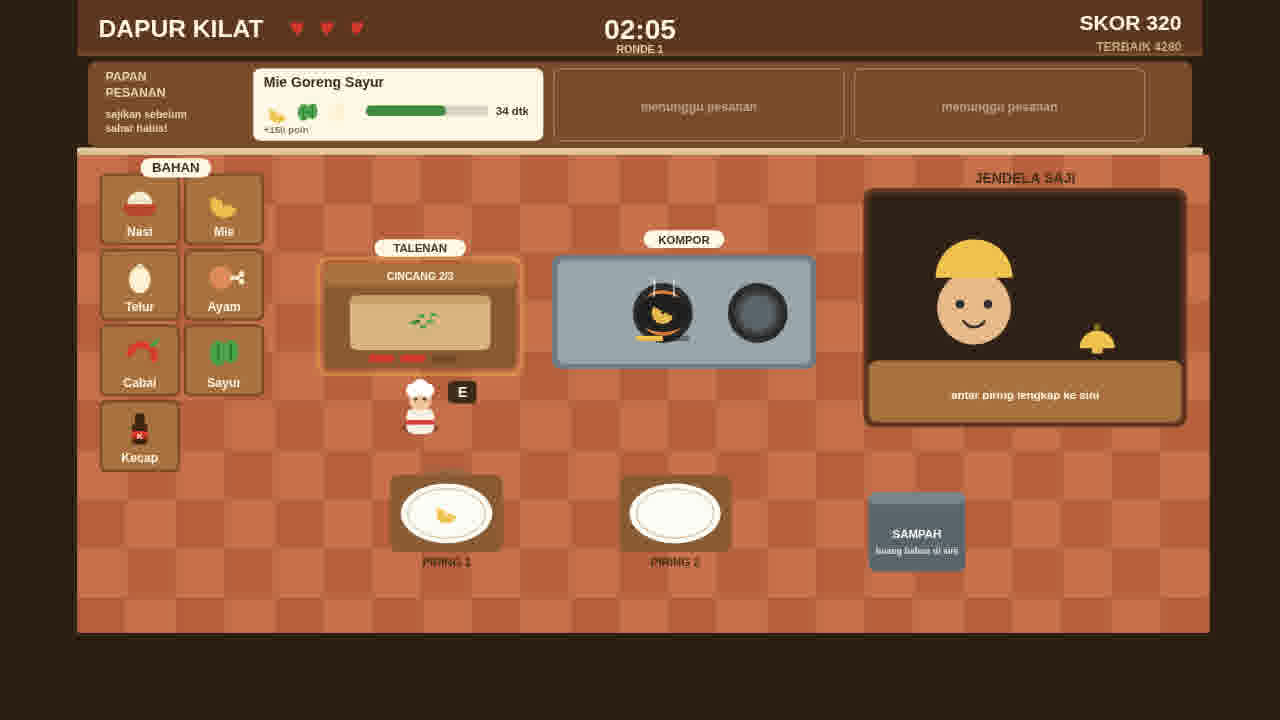
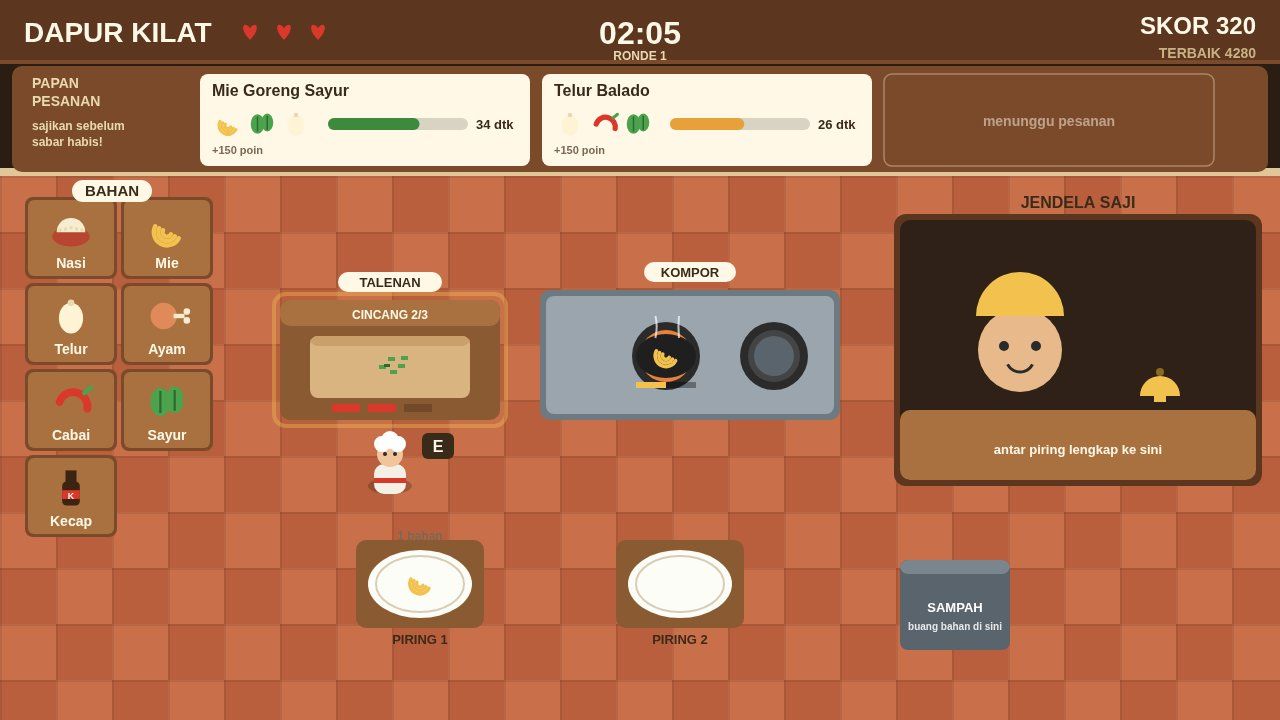
Polish: unclip order-ticket points line, livelier play shot
- Order board: taller ticket cards (92px) with the points line on a
  baseline 12px above the card bottom, so '+150 poin' etc. sit fully
  inside the card instead of riding its bottom edge.
- Empty-board hint darkened so it stays readable on the tan board.
- ?shot=play now stages 2 active orders (Mie Goreng Sayur + Telur
  Balado) instead of 1 order + 2 empty slots.
- Screenshots re-taken at true 1280x720 from the game's own code.

diff --git a/game/src/render.js b/game/src/render.js
@@ -242,8 +242,10 @@ export function createRenderer(canvas) {
       }
       text(`CINCANG ${board.taps}/3`, r.x + r.w / 2, r.y + 19, 12, '#fff8e7', 'center');
     } else {
-      text('TALENAN', r.x + r.w / 2, r.y + 62, 16, '#8a6a45', 'center');
-      text('bawa cabai / sayur ke sini', r.x + r.w / 2, r.y + 84, 11, '#8a6a45', 'center');
+      // Empty-board hint in a dark brown, so it stays readable on the tan
+      // board instead of washing out.
+      text('TALENAN', r.x + r.w / 2, r.y + 62, 16, '#6b4a26', 'center');
+      text('bawa cabai / sayur ke sini', r.x + r.w / 2, r.y + 84, 11, '#6b4a26', 'center');
     }
     ctx.fillStyle = C.paper;
     roundRect(r.x + r.w / 2 - 52, r.y - 28, 104, 20, 10);
@@ -537,52 +539,57 @@ export function createRenderer(canvas) {
   }
 
   function drawOrderBoard(game) {
-    // The board itself.
+    // The board itself: tall enough that every line of a ticket (dish name,
+    // ingredient icons, patience bar, seconds, points) sits inside its card
+    // with clear padding — the points line used to ride the card's bottom
+    // edge and read as clipped.
     ctx.fillStyle = C.wood;
-    roundRect(12, 70, W - 24, 98, 10);
+    roundRect(12, 66, W - 24, 106, 10);
     ctx.fill();
     ctx.fillStyle = C.woodDark;
-    text('PAPAN', 32, 92, 14, '#e8d9b0');
-    text('PESANAN', 32, 110, 14, '#e8d9b0');
-    text('sajikan sebelum', 32, 134, 12, '#e8d9b0');
-    text('sabar habis!', 32, 150, 12, '#e8d9b0');
+    text('PAPAN', 32, 88, 14, '#e8d9b0');
+    text('PESANAN', 32, 106, 14, '#e8d9b0');
+    text('sajikan sebelum', 32, 130, 12, '#e8d9b0');
+    text('sabar habis!', 32, 146, 12, '#e8d9b0');
     const slotW = 330;
     const slotX0 = 200;
     for (let i = 0; i < 3; i++) {
       const x = slotX0 + i * (slotW + 12);
-      const y = 78;
+      const y = 74;
       const order = game.orders[i];
       if (!order) {
         ctx.strokeStyle = 'rgba(255,248,231,0.35)';
         ctx.lineWidth = 1.5;
-        roundRect(x, y, slotW, 82, 8);
+        roundRect(x, y, slotW, 92, 8);
         ctx.stroke();
-        text('menunggu pesanan', x + slotW / 2, y + 48, 14, 'rgba(255,248,231,0.5)', 'center');
+        text('menunggu pesanan', x + slotW / 2, y + 52, 14, 'rgba(255,248,231,0.5)', 'center');
         continue;
       }
       const frac = Math.max(0, order.patience / order.maxPatience);
       const urgent = frac < 0.35;
       ctx.fillStyle = C.paper;
-      roundRect(x, y, slotW, 82, 8);
+      roundRect(x, y, slotW, 92, 8);
       ctx.fill();
       if (urgent) {
         ctx.strokeStyle = `rgba(217,56,43,${0.5 + 0.5 * Math.sin(game.now * 6)})`;
         ctx.lineWidth = 3;
-        roundRect(x, y, slotW, 82, 8);
+        roundRect(x, y, slotW, 92, 8);
         ctx.stroke();
       }
-      text(order.recipe.name, x + 12, y + 21, 16, C.ink);
+      text(order.recipe.name, x + 12, y + 22, 16, C.ink);
       order.recipe.items.forEach((ing, j) => {
         drawFood(ing, x + 28 + j * 34, y + 50, 30, 'ready');
       });
       // Patience bar, right of the icons, with the seconds beside it.
       ctx.fillStyle = 'rgba(0,0,0,0.15)';
-      roundRect(x + 128, y + 42, 140, 12, 6);
+      roundRect(x + 128, y + 44, 140, 12, 6);
       ctx.fill();
       ctx.fillStyle = urgent ? C.red : frac < 0.6 ? '#e8a13a' : C.green;
-      if (frac > 0) { roundRect(x + 128, y + 42, 140 * frac, 12, 6); ctx.fill(); }
-      text(`${Math.ceil(order.patience)} dtk`, x + 276, y + 53, 13, C.ink);
-      text(`+${order.recipe.items.length * 40 + order.recipe.tip} poin`, x + 12, y + 73, 11, C.muted);
+      if (frac > 0) { roundRect(x + 128, y + 44, 140 * frac, 12, 6); ctx.fill(); }
+      text(`${Math.ceil(order.patience)} dtk`, x + 276, y + 55, 13, C.ink);
+      // Points line: baseline 12 px above the card's bottom edge, so the
+      // whole line (descenders included) stays inside the card.
+      text(`+${order.recipe.items.length * 40 + order.recipe.tip} poin`, x + 12, y + 80, 11, C.muted);
     }
   }
 

diff --git a/game/src/main.js b/game/src/main.js
@@ -470,8 +470,9 @@ function stageShot(name) {
     g.score = 320;
     g.combo = 1;
     g.lives = 3;
-    g.orders = [orderForShot('mie-goreng', 34)];
+    g.orders = [orderForShot('mie-goreng', 34), orderForShot('telur-balado', 26)];
     g.orders[0].maxPatience = 52;
+    g.orders[1].maxPatience = 49;
     g.plates = [{ items: ['mie'] }, { items: [] }];
     g.burners = [{ item: { ing: 'mie', prep: 'raw' }, t: 2.0 }, { item: null, t: 0 }];
     g.board = { item: { ing: 'sayur', prep: 'raw' }, taps: 2 };
